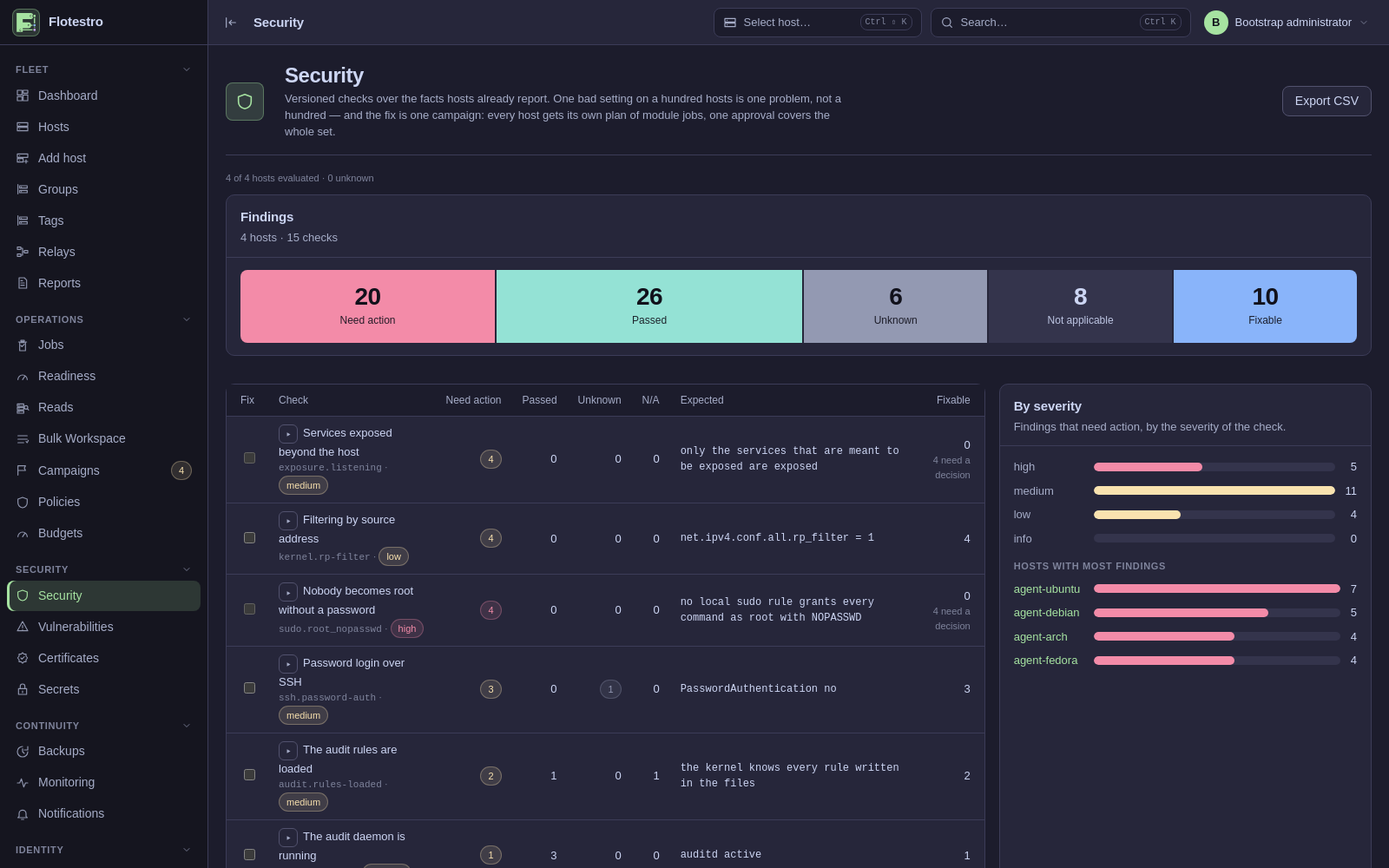
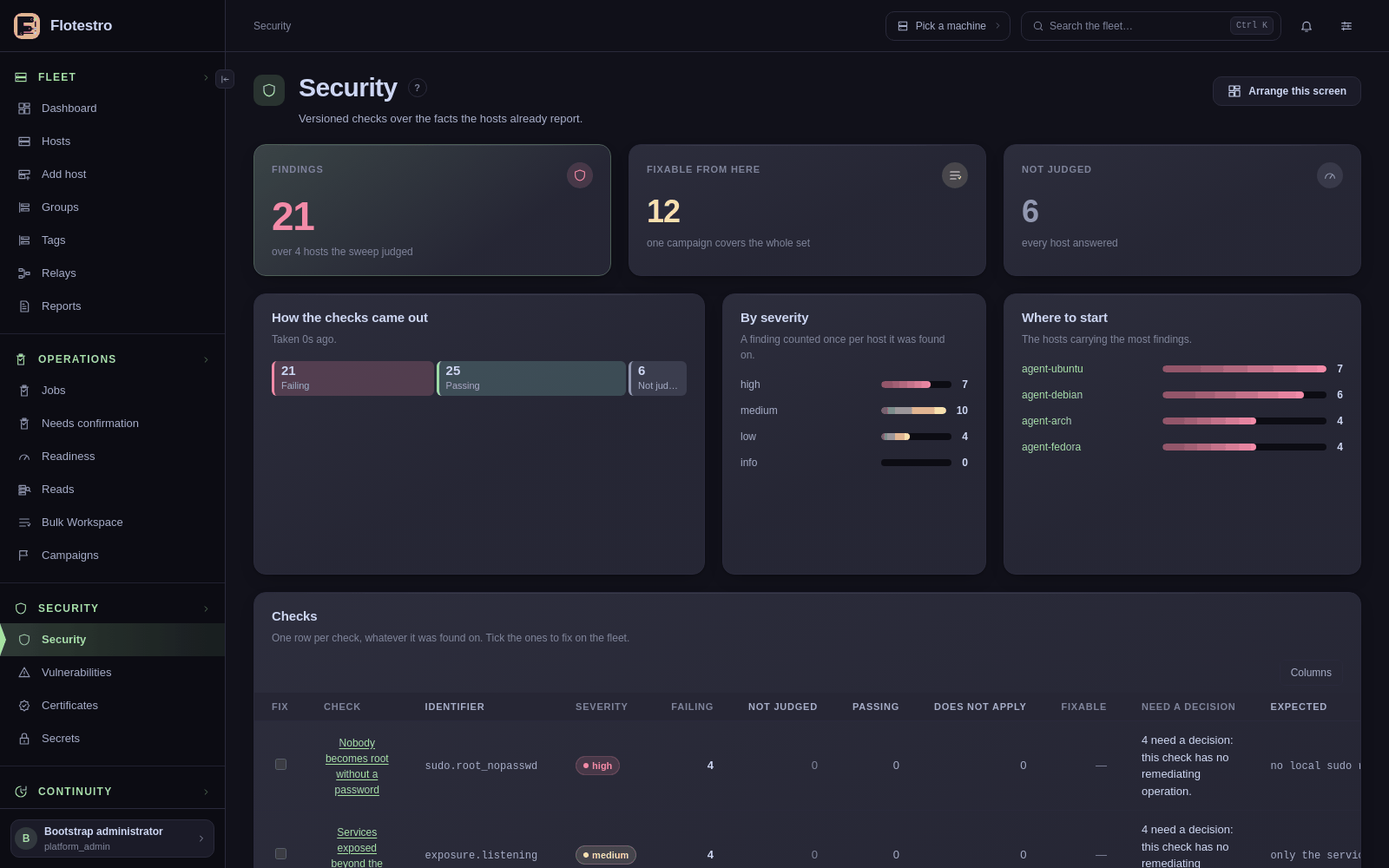
The site shows the panel that exists
Nine screenshots, taken off the laboratory with the panel at the root,
replacing nine of the panel that has just been deleted. The README's
four come from the same files.

The captions had to be rewritten, and that is the part worth reading.
They described the old pictures down to the number - "13 security
findings, 8 failed jobs in 24 hours", "387 installed through apt" -
and every one of those numbers is different now, so swapping the
images alone would have left the page describing something nobody can
see in it. Where a number is the point it is the new one and I checked
it against the picture: 21 findings over four hosts, 208 packages up
to date against 18 upgradable, 42 events succeeded and 58 denied.
Where it was incidental it is gone, because it was stale the day after
it was written and will be again.

Two of them say something the old ones could not. The packages page is
an Arch host now, so the security count reads "not counted" rather
than nought - which is the rule the product is built on, in a
screenshot. The campaign is one that was cancelled before it changed
anything, so every counter is a nought that means something.

Polish and English galleries both, nine captions each.

diff --git a/docs/site/pl/gallery.html b/docs/site/pl/gallery.html
@@ -76,69 +76,62 @@
 
     <figure class="figure">
       <img src="../img/dashboard.png" alt="Dashboard floty: dostępność hostów, problemy według rodzaju, operacje z ostatnich 24 godzin, to, co wymaga uwagi, oraz skład floty." width="1600" height="1000" loading="lazy">
-      <figcaption><b>Dashboard.</b> Tylko to, co wymaga decyzji. Po lewej dostępność hostów &mdash;
-        cztery online, zero nieaktualnych, offline, nieznanych, w kwarantannie i w trybie
-        serwisowym &mdash; po prawej problemy według rodzaju: 13 znalezisk bezpieczeństwa, 8
-        nieudanych zadań w ciągu 24 godzin, 6 kontroli z wynikiem nieznanym. Niżej zakończone
-        operacje na godzinę według wyniku; blok <i>wymaga uwagi</i> liczony w bazie danych: dwa hosty z
-        nieudanymi jednostkami, jeden enrollment w toku i cztery certyfikaty
-        agentów wygasające w ciągu 30 dni; oraz skład floty według systemu,
-        wersji agenta, site i środowiska.</figcaption>
+      <figcaption><b>Dashboard.</b> Tylko to, co wymaga decyzji. U góry cztery liczniki &mdash;
+        ile hostów jest wdrożonych, ile odpowiada, co czeka na człowieka i co znalazły kontrole
+        &mdash; a pod nimi sama kolejka: kampanie czekające na zatwierdzenie, wyniki, których
+        nikt nie potwierdził, znaleziska bezpieczeństwa, hosty z nieudanymi jednostkami. Niżej
+        skład floty według systemu, wersji agenta, site&rsquo;u i środowiska, niepowodzenia z
+        ostatniej doby wraz z hostem, do którego należą, i kampanie wciąż w biegu. Liczba,
+        której nikt nie zdołał ustalić, jest myślnikiem, nigdy zerem.</figcaption>
     </figure>
 
     <figure class="figure">
       <img src="../img/hosts.png" alt="Lista hostów z filtrami po stronie serwera i wierszem na host: stan, system, site, środowisko, domena, aktualizacje, nieudane jednostki, restart i ostatni kontakt." width="1600" height="1000" loading="lazy">
-      <figcaption><b>Hosty.</b> Filtry działają po stronie serwera: nazwa hosta lub adres, site,
-        środowisko, właściciel, tagi, dalej system operacyjny, stan, cykl życia, tryb serwisowy,
-        możliwości i kanał wydań. Wiersz niesie stan, system tak, jak zgłosił go host &mdash;
-        <code>arch</code>, <code>debian 13</code>, <code>fedora 42</code>,
-        <code>ubuntu 24.04</code> &mdash; site i środowisko, to, czy jest w domenie, ile aktualizacji
-        na niego czeka, ile jednostek padło, czy chce restartu i kiedy był
-        widziany ostatni raz.</figcaption>
+      <figcaption><b>Hosty.</b> Dwadzieścia trzy filtry, każdy zawężający po stronie serwera i każdy
+        zapisany w adresie, więc odnośnik do &bdquo;wszystkich debianów w labie czekających na
+        restart&rdquo; otwiera się dokładnie na tym. Wiersz niesie stan, adres i to, skąd panel
+        go zna, system tak, jak zgłosił go host, site i środowisko, przynależność do domeny,
+        liczbę czekających aktualizacji i moment ostatniego kontaktu. Nagłówek sortuje listę,
+        wybór kolumn ją zwęża, a przeglądarka pamięta, co zostało zwinięte.</figcaption>
     </figure>
 
     <h3>Pojedynczy host</h3>
 
     <figure class="figure">
       <img src="../img/host-overview.png" alt="Strona hosta: menu modułów, adaptery dostępne na tym hoście, fakty systemowe i sprzęt zgłoszony przez agenta." width="1600" height="1000" loading="lazy">
-      <figcaption><b>Przegląd hosta.</b> Menu po lewej to moduły tego hosta: pakiety, usługi,
+      <figcaption><b>Przegląd hosta.</b> Szyna staje się modułami tego hosta: pakiety, usługi,
         procesy, harmonogramy, jądro, czas, zasilanie, sieć, DNS, firewall, SSH, pamięć masowa,
-        pliki, kopie zapasowe, kontenery, Compose, bezpieczeństwo, podatności, certyfikaty.
-        Każda strona mówi, skąd wzięły się fakty i kiedy, tutaj
-        <code>agent/os-release+procfs, revision 1dc313f1f045, observed 8m ago</code>. Spośród
-        adapterów na tym hoście 16 potrafi czytać i zmieniać, 2 są tylko do odczytu, a 5 jest
-        niedostępnych, co jest inną odpowiedzią niż zero. Obok tożsamości i sprzętu stoi to, co
-        wymaga uwagi na samym tym hoście: żadnych nieudanych jednostek, 36 czekających
-        aktualizacji, brak aktualizacji bezpieczeństwa.</figcaption>
+        pliki, kopie zapasowe, kontenery, Compose, polityki, bezpieczeństwo, podatności,
+        certyfikaty, konta, tożsamość, zadania, audyt. Każdy kontener mówi, skąd ma swoje fakty
+        i kiedy &mdash; adapter, rewizja, jak dawno obserwowane. Spośród adapterów, które ten
+        host zgłasza, część potrafi czytać i zmieniać, część tylko czytać, a część jest
+        niedostępna wraz z powodem podanym przez samego hosta, co jest inną odpowiedzią niż
+        zero.</figcaption>
     </figure>
 
     <figure class="figure">
       <img src="../img/host-packages.png" alt="Strona pakietów jednego hosta: aktualizacje według stanu, źródła pakietów, operacje, o które może poprosić operator, oraz wersja samego agenta." width="1600" height="1000" loading="lazy">
-      <figcaption><b>Pakiety hosta.</b> 351 pakietów aktualnych, 36 do aktualizacji, w tym żadnej
-        aktualizacji bezpieczeństwa. Po prawej źródła tak, jak zgłasza je host: 387 zainstalowanych przez
-        <code>apt</code>, zdrowa baza pakietów, siedem repozytoriów, z czego jedno ma sprawdzane
-        podpisy i żadne nie jest zarządzane przez panel. Operator może zaplanować aktualizacje
-        &mdash; samo ich policzenie niczego na hoście nie zmienia &mdash; albo zainstalować,
-        wstrzymać, zdjąć wstrzymanie i zaplanować usunięcie. Zwykłe aktualizacje nie ruszają
-        agenta: jego wymiana to osobna operacja, a za wykonaną uznaje się ją dopiero wtedy, gdy
-        host wraca, zgłaszając wersję, o którą poproszono.</figcaption>
+      <figcaption><b>Pakiety hosta.</b> Tutaj maszyna na Archu: 208 pakietów aktualnych, 18 do
+        aktualizacji, zero wstrzymanych, a liczba aktualizacji bezpieczeństwa to
+        <i>nie policzono</i>, nie zero &mdash; pacman aktualizuje system w całości i nie potrafi
+        jej podać. Po prawej to, co zarządza oprogramowaniem i skąd ono pochodzi: 226
+        zainstalowanych przez <code>pacman</code>, zdrowa baza pakietów, trzy repozytoria ze
+        sprawdzanymi podpisami. Operator może zaplanować aktualizacje, co niczego na hoście nie
+        zmienia, albo zainstalować, wstrzymać, zdjąć wstrzymanie i zaplanować usunięcie. Zwykłe
+        aktualizacje nie ruszają agenta: jego wymiana to osobna operacja i liczy się za wykonaną
+        dopiero wtedy, gdy host wróci, meldując wersję, o którą poproszono.</figcaption>
     </figure>
 
     <h3>Zmiana w całej flocie</h3>
 
     <figure class="figure">
       <img src="../img/campaign.png" alt="Zakończona kampania: liczby celów, ustawienia canary i fal, zapis zatwierdzenia, fale oraz plany z ich odciskami." width="1600" height="1000" loading="lazy">
-      <figcaption><b>Kampania.</b> Zakończona kampania <code>file.ensure</code> na czterech
-        hostach: jeden canary i dwie fale, najwyżej dwa hosty naraz, próg niepowodzeń 25% albo
-        jeden host, polityka restartu <code>never</code>, polityka dla hostów offline
-        <code>replan_on_reconnect</code> i kontrakt operacji wypisany na stronie &mdash;
-        anulowanie między krokami, ponowienie po nowym planie, rollback przez dokładne
-        odtworzenie, weryfikacja przez ponowne sprawdzenie planu. Zapis zatwierdzenia mówi, kto
-        zatwierdził, na jakim uwierzytelnieniu (token API, bez ponownego uwierzytelnienia) i
-        dlaczego: <i>zmiana CHG-1042 zatwierdzona na cotygodniowym przeglądzie</i>. Powstaje raz
-        i nigdy się nie zmienia. Pod falami jeden wiersz na każdy kształt zmiany, z odciskiem planu i
-        czasem ważności &mdash; host, którego plan zdążył się zmienić, odmawia
-        wykonania.</figcaption>
+      <figcaption><b>Kampania.</b> Remediacja bezpieczeństwa na trzech hostach, anulowana zanim
+        cokolwiek zmieniła &mdash; więc przy każdym hoście stoi <i>pominięty</i>, a każdy
+        licznik pokazuje zero, co jest prawdą o kampanii, którą zatrzymano. Canary to pierwsza
+        fala i tak jest rysowana; obok fal stoi to, co czeka na człowieka, jak daleko doszedł
+        rozruch i pełny stan każdego hosta, który kampania wybrała. Zapis tego, kto ją zlecił,
+        kto zatwierdził i dlaczego, powstaje raz i nigdy się nie zmienia.</figcaption>
     </figure>
 
     <h3>Co panel obserwuje</h3>
@@ -146,44 +139,46 @@
     <figure class="figure">
       <img src="../img/security.png" alt="Strona bezpieczeństwa: znaleziska według stanu, tabela kontroli z wartością oczekiwaną oraz znaleziska według wagi i hosta." width="1600" height="1000" loading="lazy">
       <figcaption><b>Bezpieczeństwo.</b> Wersjonowane kontrole oceniane w panelu na faktach, które
-        hosty i tak zgłaszają: 13 kontroli na czterech hostach, 13 znalezisk wymagających
-        działania, 23 zaliczone, 6 nieznanych, 10 takich, które nie dotyczą hosta, 6 takich, które
-        panel potrafi naprawić. Każdy wiersz podaje nazwę kontroli i jej identyfikator &mdash;
-        <code>ssh.password-auth</code>, <code>exposure.listening</code>,
-        <code>kernel.rp-filter</code> &mdash; oraz wartość, względem której była oceniana. Jedno
-        złe ustawienie na stu hostach to jeden problem, a naprawa to jedna kampania z jednym
-        zatwierdzeniem.</figcaption>
+        hosty i tak zgłaszają: 21 znalezisk na czterech hostach, 25 zaliczonych, 6 takich, na
+        które żaden host nie odpowiedział, i 12 takich, które panel potrafi naprawić stąd jedną
+        kampanią. Każdy wiersz nazywa kontrolę i jej identyfikator &mdash;
+        <code>sudo.root_nopasswd</code>, <code>exposure.listening</code> &mdash; wagę, wartość,
+        wobec której oceniano, a tam, gdzie kontrola nie ma operacji naprawczej, mówi to wprost,
+        zamiast oferować naprawę, której nie ma. Jedno złe ustawienie na stu hostach to jeden
+        problem.</figcaption>
     </figure>
 
     <figure class="figure">
       <img src="../img/readiness.png" alt="Strona gotowości: ile hostów milczy o swoich adapterach, ile operacji ich wymaga i co każdy host powiedział o tych, których nie oferuje." width="1600" height="1000" loading="lazy">
-      <figcaption><b>Gotowość.</b> Co flota naprawdę da się zlecić, zanim ktokolwiek zleci.
-        Cztery hosty, żaden nie milczy o swoich adapterach, 114 operacji ich wymaga i
-        <b>żadnej nie da się zlecić nigdzie</b> &mdash; a przy każdym adapterze, którego host
-        nie oferuje, powód jego własnymi słowami: <i>this host has no Docker socket</i>,
-        <i>network is here and offers no write</i>, <i>this host does not run certmonger</i>,
-        <i>this host has no SELinux to switch</i>. Host innej rodziny to powód, nie usterka, a
-        strona mówi, co jest czym, zamiast liczyć brak jako zero.</figcaption>
+      <figcaption><b>Gotowość.</b> Czego flocie nie da się zlecić, zanim ktokolwiek zleci. Osiem
+        wymagań nie jest spełnionych wszędzie, a żadnej operacji nie brakuje adresata
+        całkowicie; żaden host nie milczy o swoich adapterach, co ma znaczenie, bo host, który
+        nic nie powiedział, to nie host, któremu niczego nie brakuje. Przy każdym adapterze,
+        którego host nie oferuje, powód jego własnymi słowami &mdash; <i>this host has no Docker
+        socket</i>, <i>network is here and offers no write</i>, <i>this host does not run
+        certmonger</i> &mdash; i operacje, które ten powód blokuje. Host z innej rodziny to
+        powód, nie wada, i strona mówi, które jest które, zamiast liczyć lukę jako zero.</figcaption>
     </figure>
 
     <figure class="figure">
       <img src="../img/monitoring.png" alt="Strona monitoringu: alerty według wagi, pokrycie hostów oraz reguły alertów wraz z ich warunkami." width="1600" height="1000" loading="lazy">
       <figcaption><b>Monitoring.</b> Każdy agent próbkuje swój host; reguły z tej strony zamieniają
         próbki w alerty i nic nie odpali bez reguły, którą operator może tu przeczytać. Najpierw
-        pokrycie &mdash; cztery hosty zgłaszają dane, żaden nie milczy, pięć reguł włączonych
-        &mdash; a potem same reguły: <code>filesystem_used_percent &gt; 90%</code> utrzymane przez
-        dziesięć minut to ostrzeżenie dla całej floty, ta sama metryka powyżej 97% jest krytyczna
-        i nie czeka wcale.</figcaption>
+        pokrycie &mdash; ile hostów zgłasza dane, ile zamilkło, ile reguł jest włączonych &mdash;
+        a potem same reguły, każda z metryką, progiem, czasem, przez jaki musi się utrzymać, i
+        zasięgiem hostów. Nie ma drugiego systemu do zainstalowania ani eksportera do
+        utrzymywania.</figcaption>
     </figure>
 
     <figure class="figure">
       <img src="../img/audit.png" alt="Strona audytu: zdarzenia na godzinę według wyniku, podsumowanie wyników i aktorów, filtry oraz tabela zdarzeń." width="1600" height="1000" loading="lazy">
       <figcaption><b>Audyt.</b> Każde powodzenie i niepowodzenie tworzy zdarzenie; każda odmowa
-        również. Wśród stu wypisanych tutaj: 89 się powiodło, 9 zawiodło, 2 zostały odrzucone,
-        policzone według aktora &mdash; nazwany operator, sam panel oraz kampanie pod własnymi
-        identyfikatorami. Wiersz niesie czas, aktora, rodzaj, operację, cel i wynik, a pod nazwą
-        użytkownika uwierzytelnienie, na którym oparło się żądanie: sesję i kontekst
-        uwierzytelnienia, w jakim ją nadano.</figcaption>
+        również. Ślad zawęża się po stronie serwera &mdash; wynik, aktor, operacja, cel, okno
+        czasu &mdash; więc czytane jest dokładnie to, o co poproszono. Wśród stu wypisanych
+        tutaj 42 się powiodły, 58 zostało odrzuconych, żadne nie zawiodło; wiersz niesie czas,
+        aktora, rodzaj, operację, cel i wynik, a pod nazwą użytkownika sesję i sposób
+        uwierzytelnienia, na którym żądanie się opierało. To, na czym opierało się
+        zatwierdzenie, i pola, które zmiana ruszyła, stoją pod wierszem, bez pytania.</figcaption>
     </figure>
 
     <ul class="linkrow">

diff --git a/docs/site/gallery.html b/docs/site/gallery.html
@@ -81,111 +81,107 @@
 
     <figure class="figure">
       <img src="img/dashboard.png" alt="The fleet dashboard: host availability, problems by kind, operations of the last 24 hours, what needs attention, and the composition of the fleet." width="1600" height="1000" loading="lazy">
-      <figcaption><b>Dashboard.</b> Only what needs a decision. Host availability on the left —
-        four online, nothing stale, offline, unknown, quarantined or in maintenance — and the
-        problems by kind on the right: 13 security findings, 8 failed jobs in 24 hours, 6 checks
-        that came back unknown. Below them, finished operations per hour by outcome; a
-        <i>needs attention</i> block counted in the database, with two hosts carrying failed
-        units, one pending enrollment and four agent certificates expiring within 30 days; and
-        the composition of the fleet by system, agent build, site and environment.</figcaption>
+      <figcaption><b>Dashboard.</b> Only what needs a decision. Four counters across the top — the
+        hosts enrolled, how many answer, what waits on a person, and what the checks found —
+        then the queue itself: campaigns awaiting approval, outcomes nobody has confirmed,
+        security findings, hosts carrying failed units. Under it the composition of the fleet by
+        system, agent build, site and environment, the failures of the last day with the host
+        each belongs to, and the campaigns still running. A count nobody could take is a dash,
+        never a nought.</figcaption>
     </figure>
 
     <figure class="figure">
       <img src="img/hosts.png" alt="The host list with server-side filters and a row per host: state, system, site, environment, domain, updates, failed units, reboot and last seen." width="1600" height="1000" loading="lazy">
-      <figcaption><b>Hosts.</b> The filters are applied server-side: hostname or address, site,
-        environment, owner, tags, then operating system, state, lifecycle, maintenance,
-        capability and release channel. A row carries the state, the system as the host reported
-        it — <code>arch</code>, <code>debian 13</code>, <code>fedora 42</code>,
-        <code>ubuntu 24.04</code> — its site and environment, whether it is in a domain, how many
-        updates wait for it, how many units have failed, whether it wants a reboot, and when it
-        was last seen.</figcaption>
+      <figcaption><b>Hosts.</b> Twenty-three filters, every one of them applied on the server and
+        every one of them in the address, so a link to &ldquo;every Debian host in the lab
+        waiting on a reboot&rdquo; opens on exactly that. A row carries the state, the address
+        and where it came from, the system as the host reported it, its site and environment,
+        whether it is in a domain, how many updates wait for it and when it was last seen. The
+        heading orders the list, the chooser folds a column away and the browser remembers
+        which.</figcaption>
     </figure>
 
     <h3>One host</h3>
 
     <figure class="figure">
       <img src="img/host-overview.png" alt="A host page: the module menu, the adapters available on this host, the system facts and the hardware the agent reported." width="1600" height="1000" loading="lazy">
-      <figcaption><b>Host overview.</b> The left-hand menu is that host&rsquo;s modules: packages,
+      <figcaption><b>Host overview.</b> The rail becomes that host&rsquo;s modules: packages,
         services, processes, schedules, kernel, time, power, network, DNS, firewall, SSH,
-        storage, files, backups, containers, Compose, security, vulnerabilities, certificates.
-        Every page says where its facts came from and when — here
-        <code>agent/os-release+procfs, revision 1dc313f1f045, observed 8m ago</code>. Of the
-        adapters on this host 16 can read and change, 2 are read-only and 5 are unavailable,
-        which is a different answer from zero. Beside the identity and the hardware sits what
-        needs attention on this host alone: no failed units, 36 updates waiting, no security
-        updates.</figcaption>
+        storage, files, backups, containers, Compose, policies, security, vulnerabilities,
+        certificates, accounts, identity, jobs, audit. Every container says where its facts came
+        from and when — the adapter, the revision, how long ago it was observed. Of the adapters
+        this host reports, some can read and change, some only read and some are unavailable
+        with the host&rsquo;s own reason beside them, which is a different answer from zero.</figcaption>
     </figure>
 
     <figure class="figure">
       <img src="img/host-packages.png" alt="The packages page of one host: updates by state, the package sources, the operations an operator may request, and the agent's own version." width="1600" height="1000" loading="lazy">
-      <figcaption><b>Packages of a host.</b> 351 packages up to date, 36 upgradable, none of them
-        security. On the right the sources as the host reports them: 387 installed through
-        <code>apt</code>, a healthy package database, seven repositories of which one has its
-        signatures checked and none is managed by the panel. The operator can plan the updates —
-        counting them changes nothing on the host — or install, hold, unhold and plan a removal.
-        Ordinary upgrades leave the agent alone: replacing it is an operation of its own, and it
-        counts as done only when the host comes back reporting the version that was asked
-        for.</figcaption>
+      <figcaption><b>Packages of a host.</b> Here an Arch machine: 208 packages up to date, 18
+        upgradable, none held, and the security count <i>not counted</i> rather than nought,
+        because pacman upgrades the system at once and cannot say. On the right what manages the
+        software and where it comes from — 226 installed through <code>pacman</code>, a healthy
+        package database, three repositories with their signatures checked. The operator can
+        plan the updates, which changes nothing on the host, or install, hold, unhold and plan a
+        removal. Ordinary upgrades leave the agent alone: replacing it is an operation of its
+        own, and it counts as done only when the host comes back reporting the version that was
+        asked for.</figcaption>
     </figure>
 
     <h3>A change across the fleet</h3>
 
     <figure class="figure">
-      <img src="img/campaign.png" alt="A completed campaign: target counts, canary and wave settings, the approval record, the waves and the plans with their fingerprints." width="1600" height="1000" loading="lazy">
-      <figcaption><b>Campaign.</b> A completed <code>file.ensure</code> campaign over four hosts:
-        one canary and two waves, at most two hosts at a time, a failure threshold of 25% or one
-        host, reboot policy <code>never</code>, offline policy
-        <code>replan_on_reconnect</code>, and the contract of the operation stated on the page —
-        cancel between steps, retry after a new plan, rollback by exact restore, verification by
-        re-checking the plan. The approval record says who approved, on what authentication (an
-        API token, not re-authenticated) and why: <i>change CHG-1042 approved in the weekly
-        review</i>. It is written once and never changed. Below the waves, one row per shape of
-        the change with its plan fingerprint and how long it stays valid — a host whose plan has
-        changed since refuses the change.</figcaption>
+      <img src="img/campaign.png" alt="A campaign: how far it got, what waits on a person, the state of every host it selected, and the rollout wave by wave." width="1600" height="1000" loading="lazy">
+      <figcaption><b>Campaign.</b> A security remediation over three hosts, cancelled before it
+        changed anything — so every host reads <i>skipped</i> and every counter reads nought,
+        which is the truth about a campaign that was stopped. The canary is the first wave and
+        is drawn as one; beside the waves sit what waits on a person, how far the rollout got,
+        and the whole state of every host the campaign selected. The record of who ordered it,
+        who approved it and why is written once and never changed.</figcaption>
     </figure>
 
     <h3>What the panel watches</h3>
 
     <figure class="figure">
       <img src="img/security.png" alt="The security page: findings by state, a table of checks with the expected value, and findings by severity and by host." width="1600" height="1000" loading="lazy">
-      <figcaption><b>Security.</b> Versioned checks judged in the panel over facts the hosts
-        already report: 13 checks across four hosts, 13 findings that need action, 23 passed, 6
-        unknown, 10 not applicable, 6 that the panel can fix. Each row names the check and its
-        identifier — <code>ssh.password-auth</code>, <code>exposure.listening</code>,
-        <code>kernel.rp-filter</code> — and the value it was judged against. One bad setting on
-        a hundred hosts is one problem, and the fix is one campaign with one
-        approval.</figcaption>
+      <figcaption><b>Security.</b> Versioned checks judged in the panel over facts the hosts already
+        report: 21 findings over four hosts, 25 passing, 6 that no host could answer, and 12 the
+        panel can fix from here with one campaign. Each row names the check and its identifier —
+        <code>sudo.root_nopasswd</code>, <code>exposure.listening</code> — the severity, what it
+        was judged against, and where a check has no remediating operation it says so instead of
+        offering a fix that does not exist. One bad setting on a hundred hosts is one problem.</figcaption>
     </figure>
 
     <figure class="figure">
       <img src="img/readiness.png" alt="The readiness page: how many hosts are silent about their adapters, how many operations need one, and what each host said about the ones it does not offer." width="1600" height="1000" loading="lazy">
-      <figcaption><b>Readiness.</b> What the fleet can actually be asked to do, before anybody
-        asks. Four hosts, none silent about its adapters, 114 operations that need one and
-        <b>none orderable nowhere</b> &mdash; and for each adapter a host does not offer, the
-        reason in the host&rsquo;s own words: <i>this host has no Docker socket</i>,
-        <i>network is here and offers no write</i>, <i>this host does not run certmonger</i>,
-        <i>this host has no SELinux to switch</i>. A host of another family is a reason, not a
-        fault, and the page says which is which rather than counting the gap as zero.</figcaption>
+      <figcaption><b>Readiness.</b> What the fleet cannot be asked to do, before anybody asks.
+        Eight requirements are not met everywhere and nothing is orderable nowhere; no host is
+        silent about its adapters, which matters, because a host that said nothing is not a host
+        with nothing missing. For each adapter a host does not offer, the reason in the
+        host&rsquo;s own words — <i>this host has no Docker socket</i>, <i>network is here and
+        offers no write</i>, <i>this host does not run certmonger</i> — and the operations that
+        reason blocks. A host of another family is a reason, not a fault, and the page says
+        which is which rather than counting the gap as zero.</figcaption>
     </figure>
 
     <figure class="figure">
       <img src="img/monitoring.png" alt="The monitoring page: alerts by severity, coverage of the hosts, and the alert rules with their conditions." width="1600" height="1000" loading="lazy">
-      <figcaption><b>Monitoring.</b> Every agent samples its host; the rules on this page turn
-        the samples into alerts, and nothing fires without a rule an operator can read here.
-        Coverage first — four hosts reporting, none silent, five rules enabled — then the
-        rules themselves: <code>filesystem_used_percent &gt; 90%</code> held for ten minutes is
-        a warning over the whole fleet, the same metric past 97% is critical with no waiting
-        at all.</figcaption>
+      <figcaption><b>Monitoring.</b> Every agent samples its host; the rules on this page turn the
+        samples into alerts, and nothing fires without a rule an operator can read here.
+        Coverage first — how many hosts report, how many have gone quiet, how many rules are
+        enabled — then the rules themselves, each with the metric, the threshold, how long it
+        must hold and over which hosts it applies. There is no second system to install and no
+        exporter to keep alive.</figcaption>
     </figure>
 
     <figure class="figure">
       <img src="img/audit.png" alt="The audit page: events per hour by outcome, the outcome and actor summary, filters, and the event table." width="1600" height="1000" loading="lazy">
-      <figcaption><b>Audit.</b> Every success and failure creates an event; so does every denial.
-        Among the hundred listed here: 89 succeeded, 9 failed, 2 were denied, counted by actor —
-        a named operator, the panel itself, and campaigns under their own identifiers. A row
-        carries the time, the actor, the kind, the operation, the target and the result, and
-        under a user&rsquo;s name the authentication the request rested on: the session and the
-        authentication context it was granted with.</figcaption>
+      <figcaption><b>Audit.</b> Every success and failure creates an event; so does every denial. The
+        trail narrows on the server — outcome, actor, operation, target, a window of time — so
+        what is asked for is what is read. Among the hundred listed here, 42 succeeded, 58 were
+        denied and none failed; a row carries the time, the actor, the kind, the operation, the
+        target and the result, and under a user&rsquo;s name the session and the authentication
+        the request rested on. What an approval rested on and which fields a change touched are
+        written under the row, without being asked for.</figcaption>
     </figure>
 
     <ul class="linkrow">
